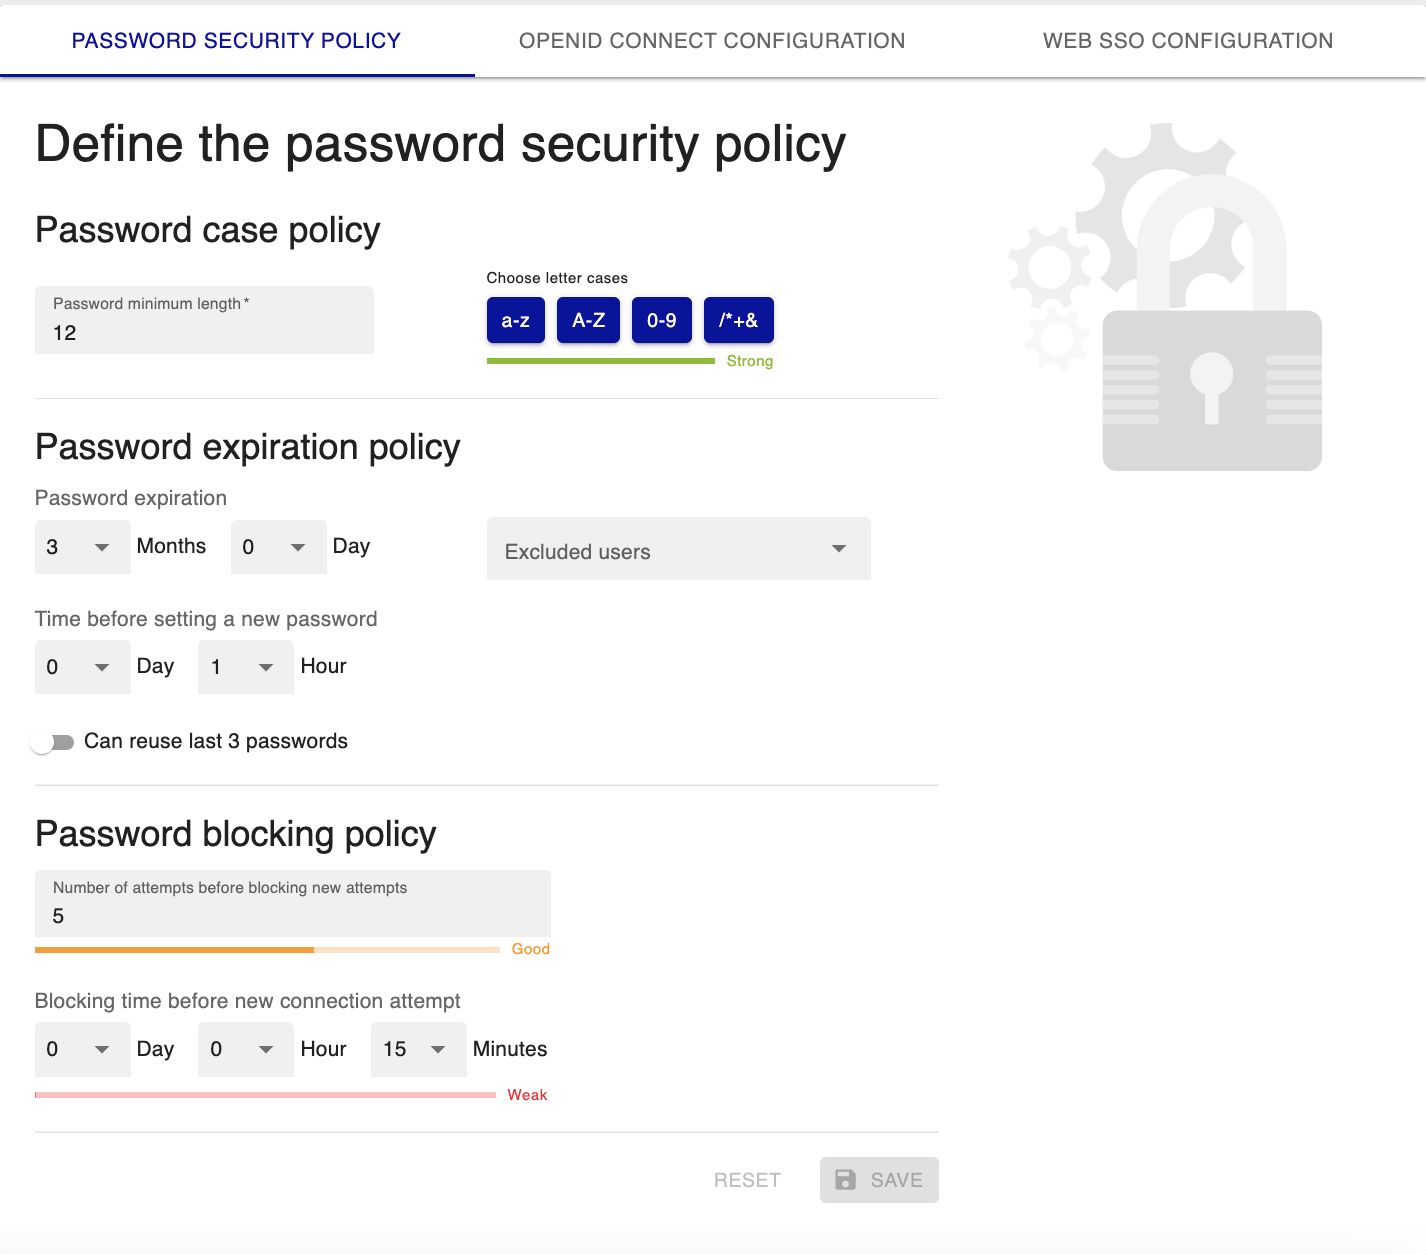
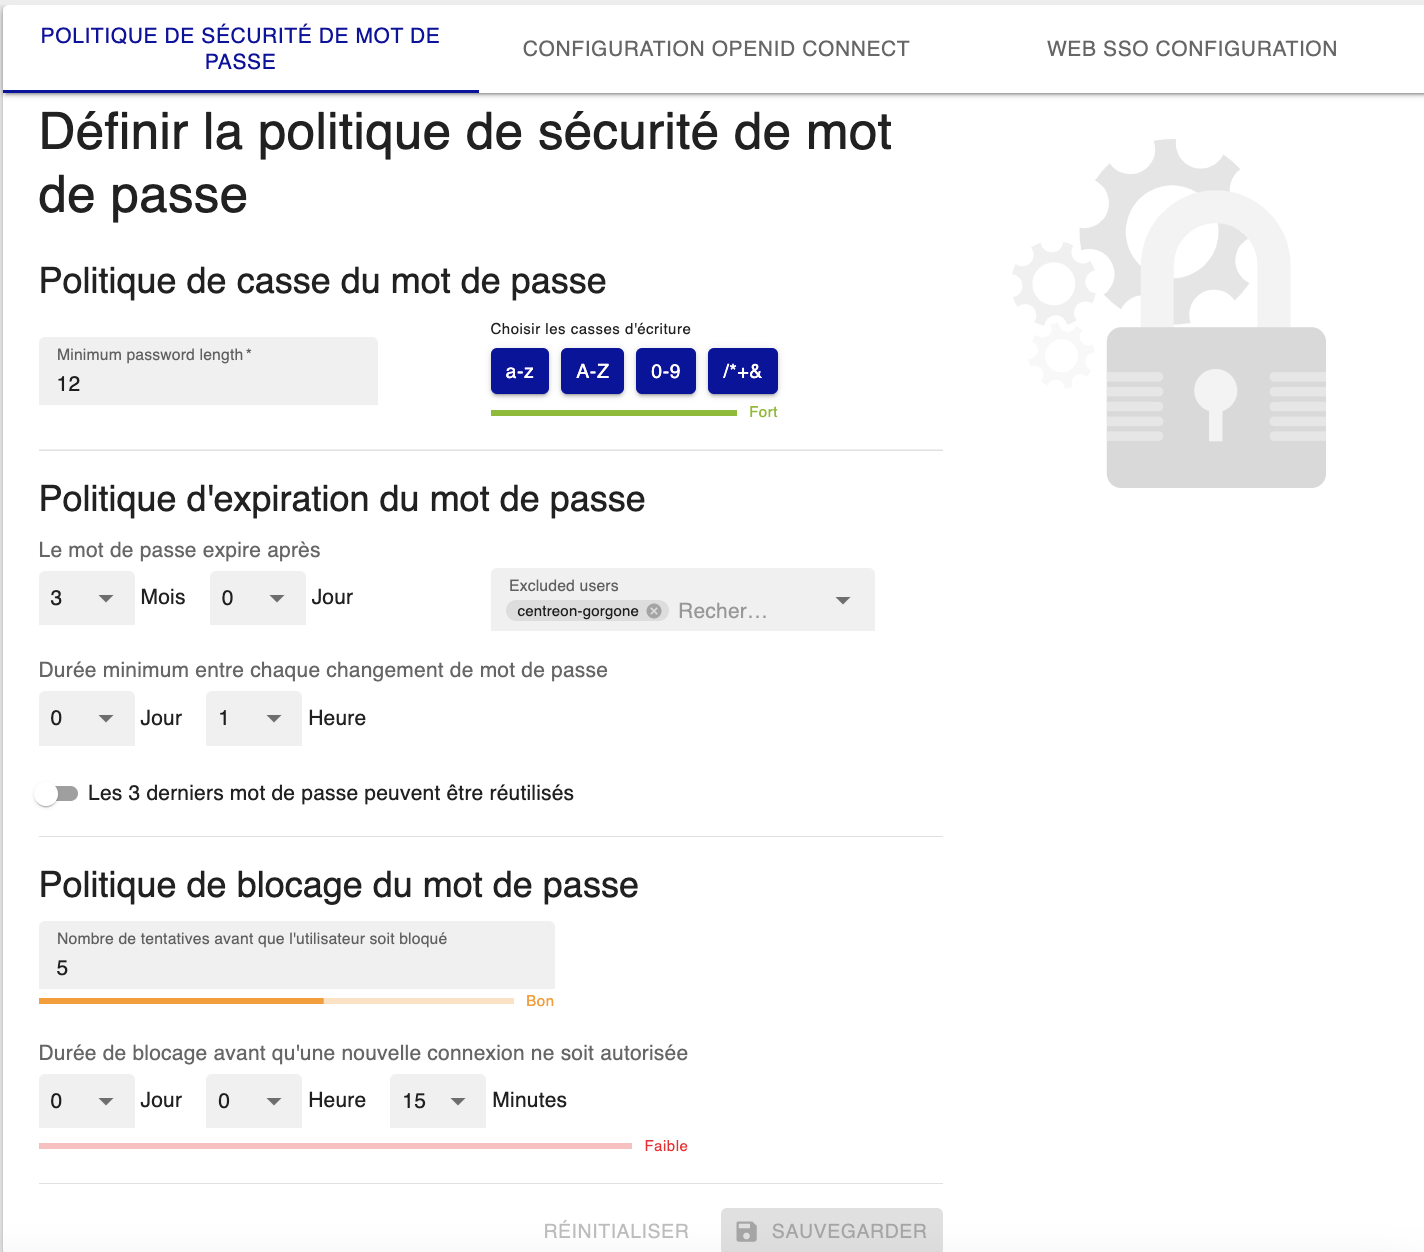
enh(local): Improve image and text

diff --git a/i18n/fr/docusaurus-plugin-content-docs/version-22.04/connect/loginpwd.md b/i18n/fr/docusaurus-plugin-content-docs/version-22.04/connect/loginpwd.md
@@ -10,29 +10,28 @@ brute.
 
 ## Configurer la politique de sécurité de mot de passe
 
-Allez à la page **Administration > Authentication> Password Security Policy** :
+Allez à la page **Administration > Authentication> Politique de sécurité de mot de passe** :
 
 ![image](../assets/administration/local-configuration.png)
 
-### Politique de complexité des mots de passe
+### Politique de casse du mot de passe
 
-Premièrement, définissez la longeur du mot de passe **password minimum length** et sa complexité **password complexity**.
+Premièrement, définissez la **Minimum password length** et **Choisir les casses d'écriture**.
 
 ### Politique d'expiration du mot de passe
 
 Puis, configurez la politique d'expiration :
-- **Password expiration**: Une fois le mot de passe expiré, l'utilisateur sera redirigé vers une
+- **Le mot de passe expire après** : Une fois le mot de passe expiré, l'utilisateur sera redirigé vers une
   [page dédiée](../getting-started/interface.md#réinitialisez-votre-mot-de-passe-après-expiration) pour mettre à jour son mot de passe.
-- **Time before setting a new password**: Délais entre deux changements de mots de passe.
-- **Can reuse last 3 passwords**: Cette option permet à l'utilisateur de ne pas réutiliser l'un de ses 3 anciens mots
-  de passe lors du renouvellement.
-- **Excluded users**: Cette option permet d'exclure des comptes utilisateurs, notamment les comptes accédant aux API,
+- **Durée minimum entre chaque changement de mot de passe**
+- activez ou non l'option **Les 3 derniers mot de passe peuvent être réutilisés**.
+- **Excluded users** : Cette option permet d'exclure des comptes utilisateurs, notamment les comptes accédant aux API,
   de la politique d'expiration des mots de passe.
 
-### Politique de blocage des mots de passe
+### Politique de blocage du mot de passe
 
-Pour bloquer les attaques de type force brute, vous pouvez définir le nombre de tentatives infructueuses avant de
-bloquer les utilisateurs avant toute nouvelle tentative de connexion.
+Pour bloquer les attaques de type force brute, vous pouvez définir le **Nombre de tentatives avant que l'utilisateur soit bloqué**,
+ainsi que la **Durée de blocage avant qu'une nouvelle connexion soit authorisée**.
 
 ## Autoriser les utilisateurs à accéder à Centreon
 

diff --git a/versioned_docs/version-22.04/connect/loginpwd.md b/versioned_docs/version-22.04/connect/loginpwd.md
@@ -13,24 +13,24 @@ Go to **Administration > Authentication> Password Security Policy** page:
 
 ![image](../assets/administration/local-configuration.png)
 
-### Password complexity policy
+### Password case policy
 
-First select the **password minimum length** as well as **password complexity** for new password definition.
+First select the **Minium password length** as well as **Choose letter cases** for new password definition.
 
 ### Password expiration policy
 
 Then, configure expiration policy:
-- **Password expiration**: Once the password expires, the user will be redirected to a
+- **Password expires after**: Once the password expires, the user will be redirected to a
   [dedicated page](../getting-started/interface.md#reset-your-password-when-expired) to update their password.
-- **Time before setting a new password**: Delays between two changes of passwords.
-- **Can reuse last 3 passwords**: This option allows the user not to reuse one of his 3 old passwords when renewing.
+- **Minimum time between password changes**: Delays between two changes of passwords.
+- **Last 3 passwords can be reused**: This option allows the user not to reuse one of his 3 old passwords when renewing.
 - **Excluded users**: This option makes it possible to exclude user accounts, in particular accounts accessing APIs
   from the password expiration policy.
 
-### Password Password blocking policy
+### Password blocking policy
 
-To block brute force type attacks, you can define the number of failed attempts before to block the users before new
-connection attempt.
+To block brute force type attacks, you can define the **Number of attempts before user is blocked** as well ass the
+**Time that must pass before new connection is allowed**.
 
 ## Authorise users to access to Centreon
 
